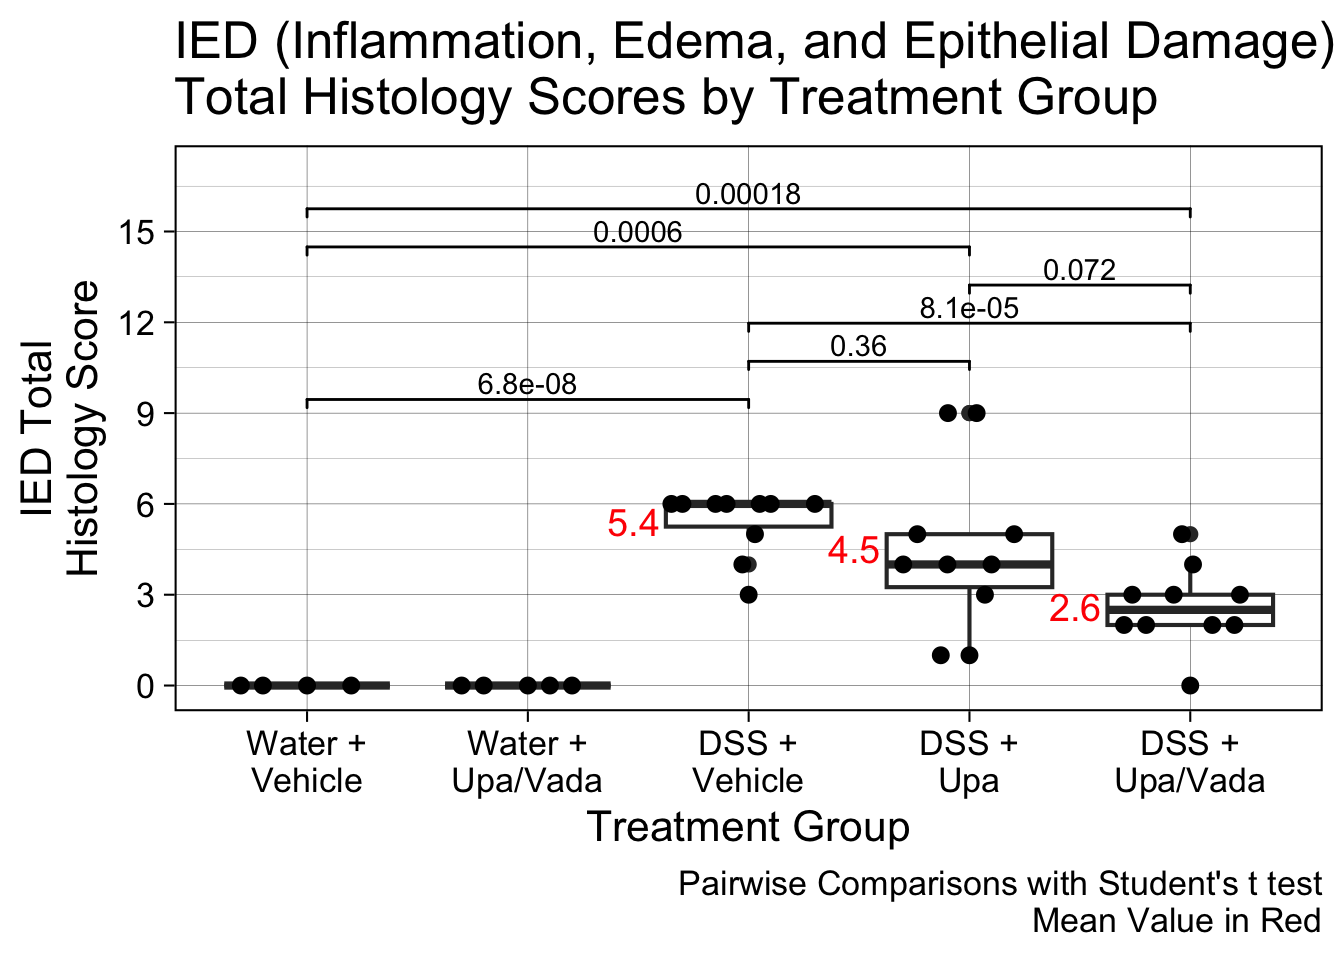
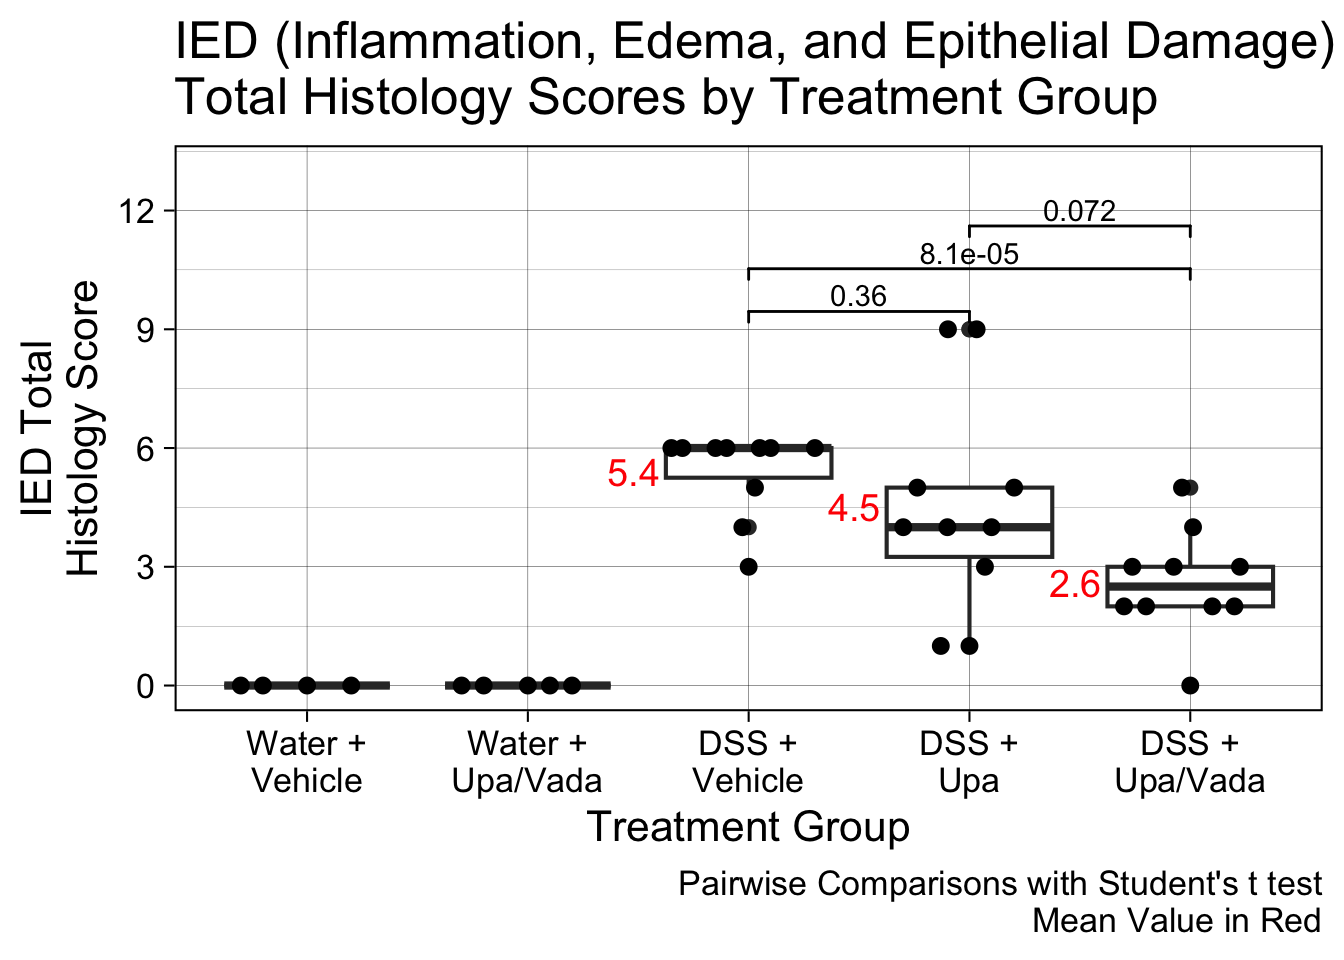
trimmed down signif brackets

diff --git a/upa-vada-mice2.html b/upa-vada-mice2.html
@@ -897,12 +897,12 @@ pre > code.sourceCode > span > a:first-child::before { text-decoration: underlin
 <span id="cb29-8"><a href="#cb29-8" aria-hidden="true" tabindex="-1"></a>        <span class="at">title =</span> <span class="st">"IED (Inflammation, Edema, and Epithelial Damage)</span><span class="sc">\n</span><span class="st">Total Histology Scores by Treatment Group"</span>,</span>
 <span id="cb29-9"><a href="#cb29-9" aria-hidden="true" tabindex="-1"></a>        <span class="at">caption =</span> <span class="st">"Pairwise Comparisons with Student's t test</span><span class="sc">\n</span><span class="st">Mean Value in Red"</span>) <span class="sc">+</span></span>
 <span id="cb29-10"><a href="#cb29-10" aria-hidden="true" tabindex="-1"></a>   ggsignif<span class="sc">::</span><span class="fu">geom_signif</span>(<span class="at">comparisons =</span> <span class="fu">list</span>(</span>
-<span id="cb29-11"><a href="#cb29-11" aria-hidden="true" tabindex="-1"></a>    <span class="fu">c</span>(<span class="dv">1</span>,<span class="dv">3</span>), <span class="fu">c</span>(<span class="dv">3</span>,<span class="dv">4</span>), <span class="fu">c</span>(<span class="dv">3</span>,<span class="dv">5</span>), <span class="fu">c</span>(<span class="dv">4</span>,<span class="dv">5</span>), <span class="fu">c</span>(<span class="dv">1</span>,<span class="dv">4</span>),</span>
-<span id="cb29-12"><a href="#cb29-12" aria-hidden="true" tabindex="-1"></a>    <span class="fu">c</span>(<span class="dv">1</span>,<span class="dv">5</span>)),</span>
+<span id="cb29-11"><a href="#cb29-11" aria-hidden="true" tabindex="-1"></a>    <span class="fu">c</span>(<span class="dv">3</span>,<span class="dv">4</span>), <span class="fu">c</span>(<span class="dv">3</span>,<span class="dv">5</span>),  </span>
+<span id="cb29-12"><a href="#cb29-12" aria-hidden="true" tabindex="-1"></a>    <span class="fu">c</span>(<span class="dv">4</span>,<span class="dv">5</span>)),</span>
 <span id="cb29-13"><a href="#cb29-13" aria-hidden="true" tabindex="-1"></a>    <span class="at">test =</span> <span class="st">"t.test"</span>,</span>
-<span id="cb29-14"><a href="#cb29-14" aria-hidden="true" tabindex="-1"></a>    <span class="at">step_increase =</span> <span class="fl">0.14</span>) <span class="sc">+</span></span>
+<span id="cb29-14"><a href="#cb29-14" aria-hidden="true" tabindex="-1"></a>    <span class="at">step_increase =</span> <span class="fl">0.12</span>) <span class="sc">+</span></span>
 <span id="cb29-15"><a href="#cb29-15" aria-hidden="true" tabindex="-1"></a>  <span class="fu">scale_x_discrete</span>(<span class="at">labels =</span> <span class="fu">label_wrap</span>(<span class="dv">8</span>)) <span class="sc">+</span></span>
-<span id="cb29-16"><a href="#cb29-16" aria-hidden="true" tabindex="-1"></a>  <span class="fu">scale_y_continuous</span>(<span class="at">breaks =</span> <span class="fu">seq</span>(<span class="dv">0</span>, <span class="dv">15</span>, <span class="at">by =</span> <span class="dv">3</span>), <span class="at">limits =</span> <span class="fu">c</span>(<span class="dv">0</span>,<span class="dv">17</span>)) <span class="sc">+</span></span>
+<span id="cb29-16"><a href="#cb29-16" aria-hidden="true" tabindex="-1"></a>  <span class="fu">scale_y_continuous</span>(<span class="at">breaks =</span> <span class="fu">seq</span>(<span class="dv">0</span>, <span class="dv">12</span>, <span class="at">by =</span> <span class="dv">3</span>), <span class="at">limits =</span> <span class="fu">c</span>(<span class="dv">0</span>,<span class="dv">13</span>)) <span class="sc">+</span></span>
 <span id="cb29-17"><a href="#cb29-17" aria-hidden="true" tabindex="-1"></a>  <span class="fu">theme_linedraw</span>(<span class="at">base_size =</span> <span class="dv">16</span>, <span class="at">base_family =</span> <span class="st">"Arial"</span>) <span class="sc">+</span></span>
 <span id="cb29-18"><a href="#cb29-18" aria-hidden="true" tabindex="-1"></a>  <span class="fu">annotate</span>(<span class="st">"text"</span>, <span class="at">x =</span> <span class="fl">2.48</span>, <span class="at">y =</span> <span class="fl">5.4</span>, <span class="at">label =</span> <span class="st">"5.4"</span>, <span class="at">size =</span> <span class="dv">5</span>, <span class="at">color =</span> <span class="st">"red"</span>) <span class="sc">+</span></span>
 <span id="cb29-19"><a href="#cb29-19" aria-hidden="true" tabindex="-1"></a>  <span class="fu">annotate</span>(<span class="st">"text"</span>, <span class="at">x =</span> <span class="fl">3.48</span>, <span class="at">y =</span> <span class="fl">4.5</span>, <span class="at">label =</span> <span class="st">"4.5"</span>, <span class="at">size =</span> <span class="dv">5</span>, <span class="at">color =</span> <span class="st">"red"</span>) <span class="sc">+</span></span>
